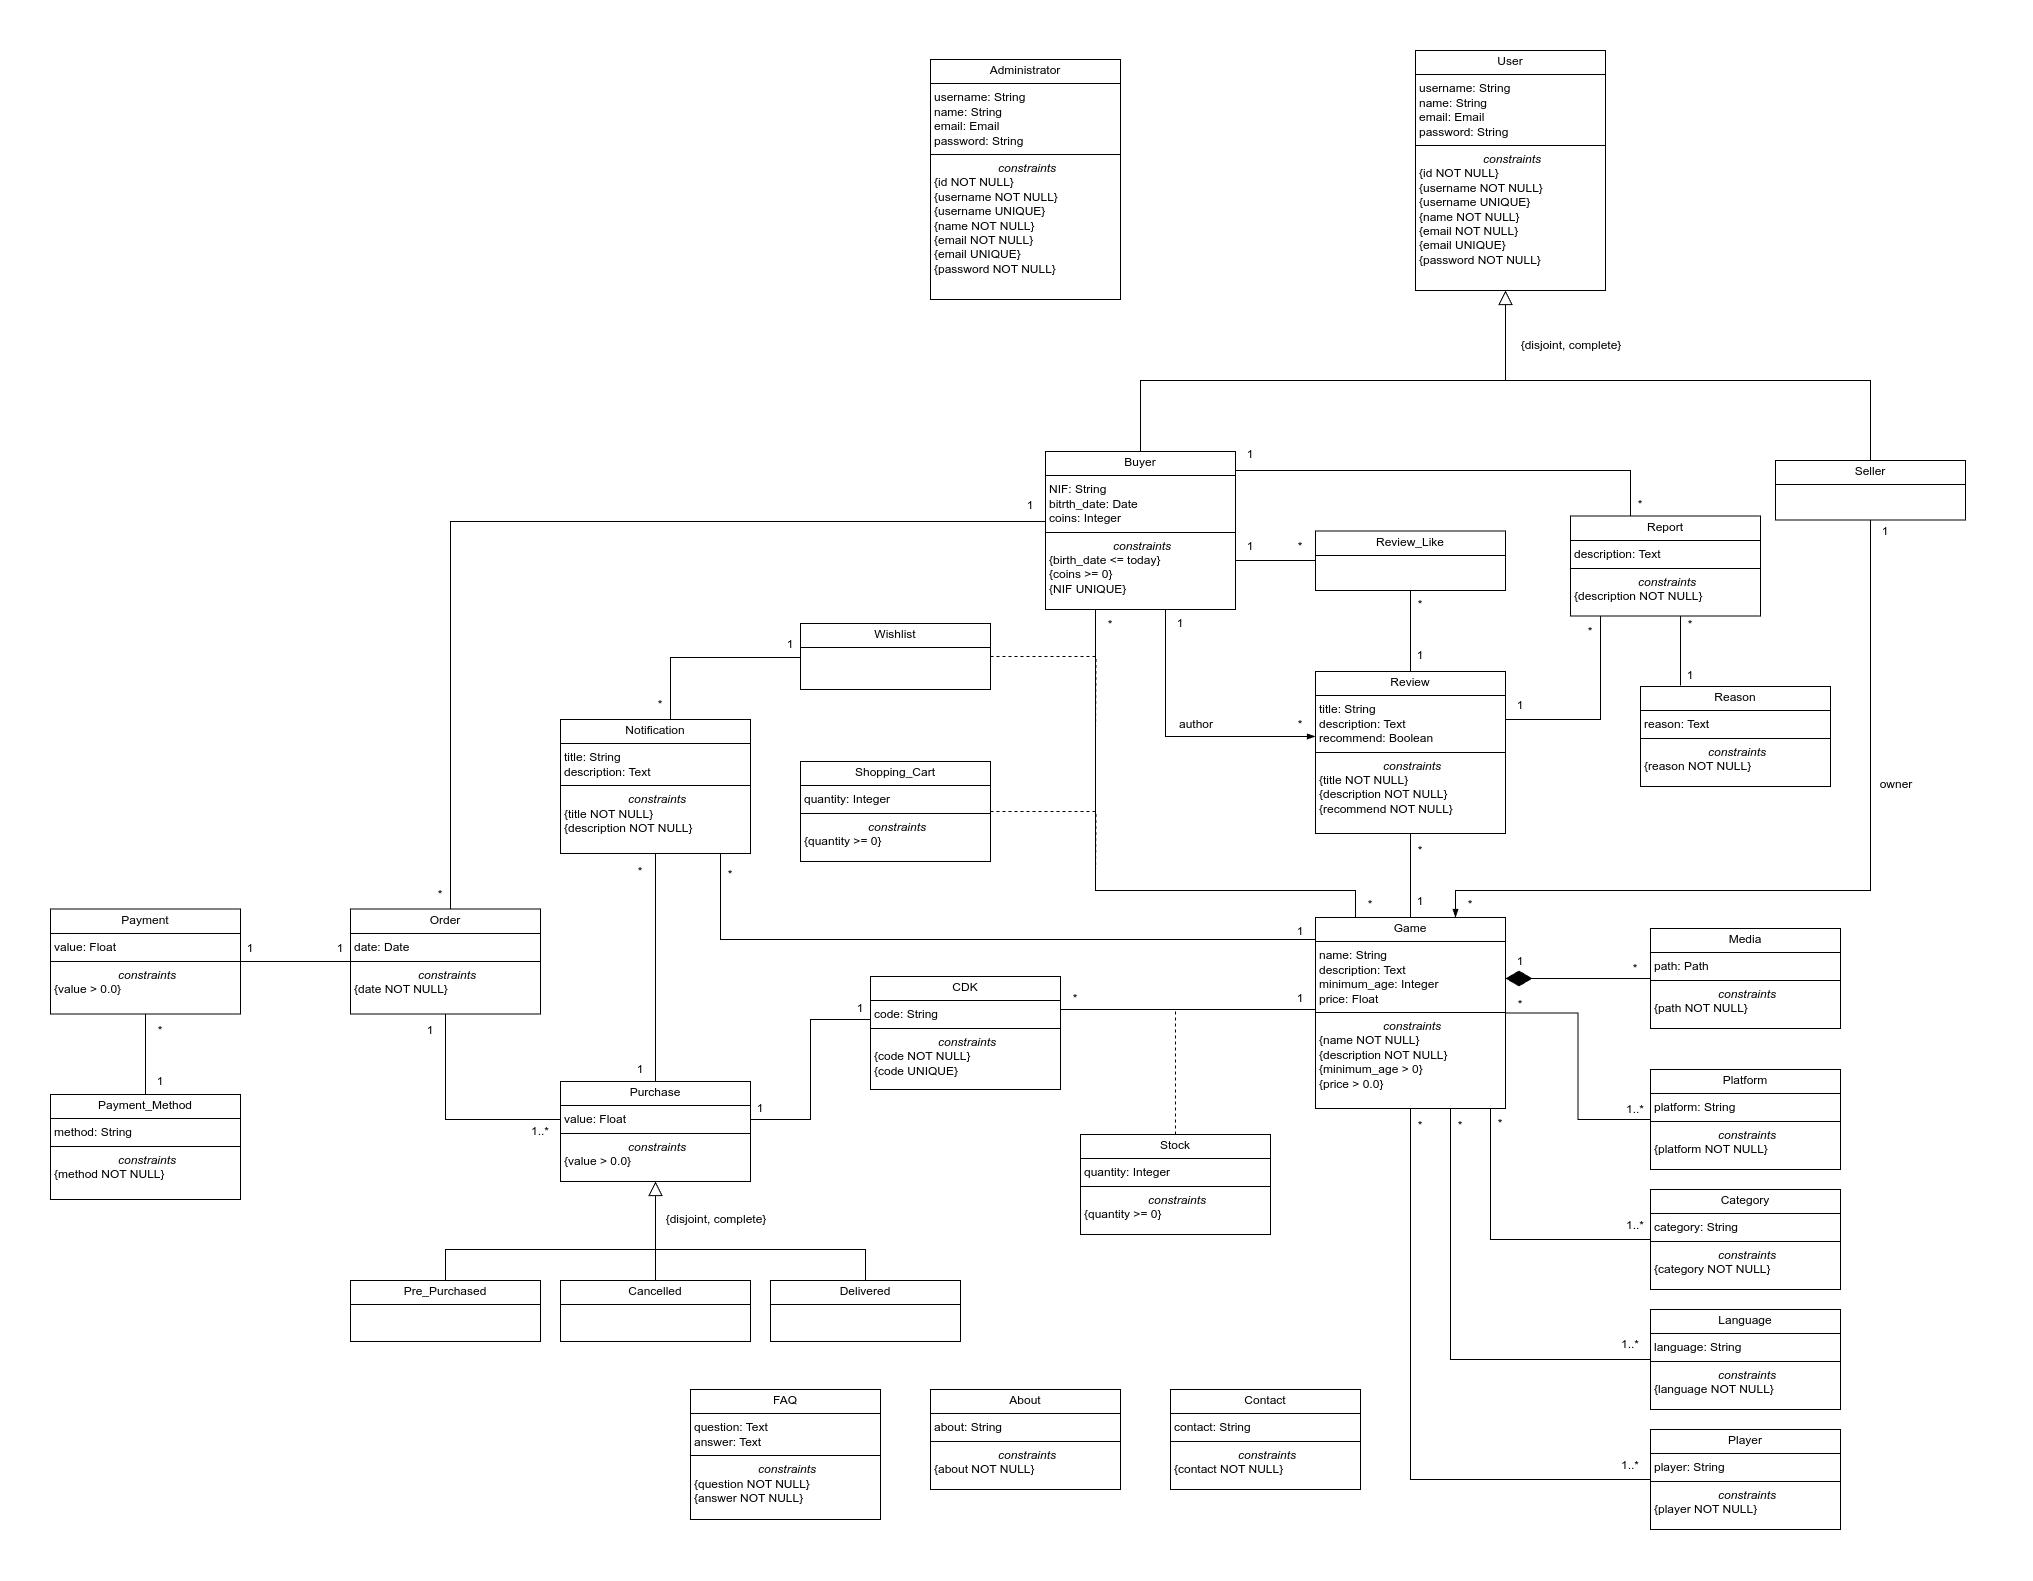
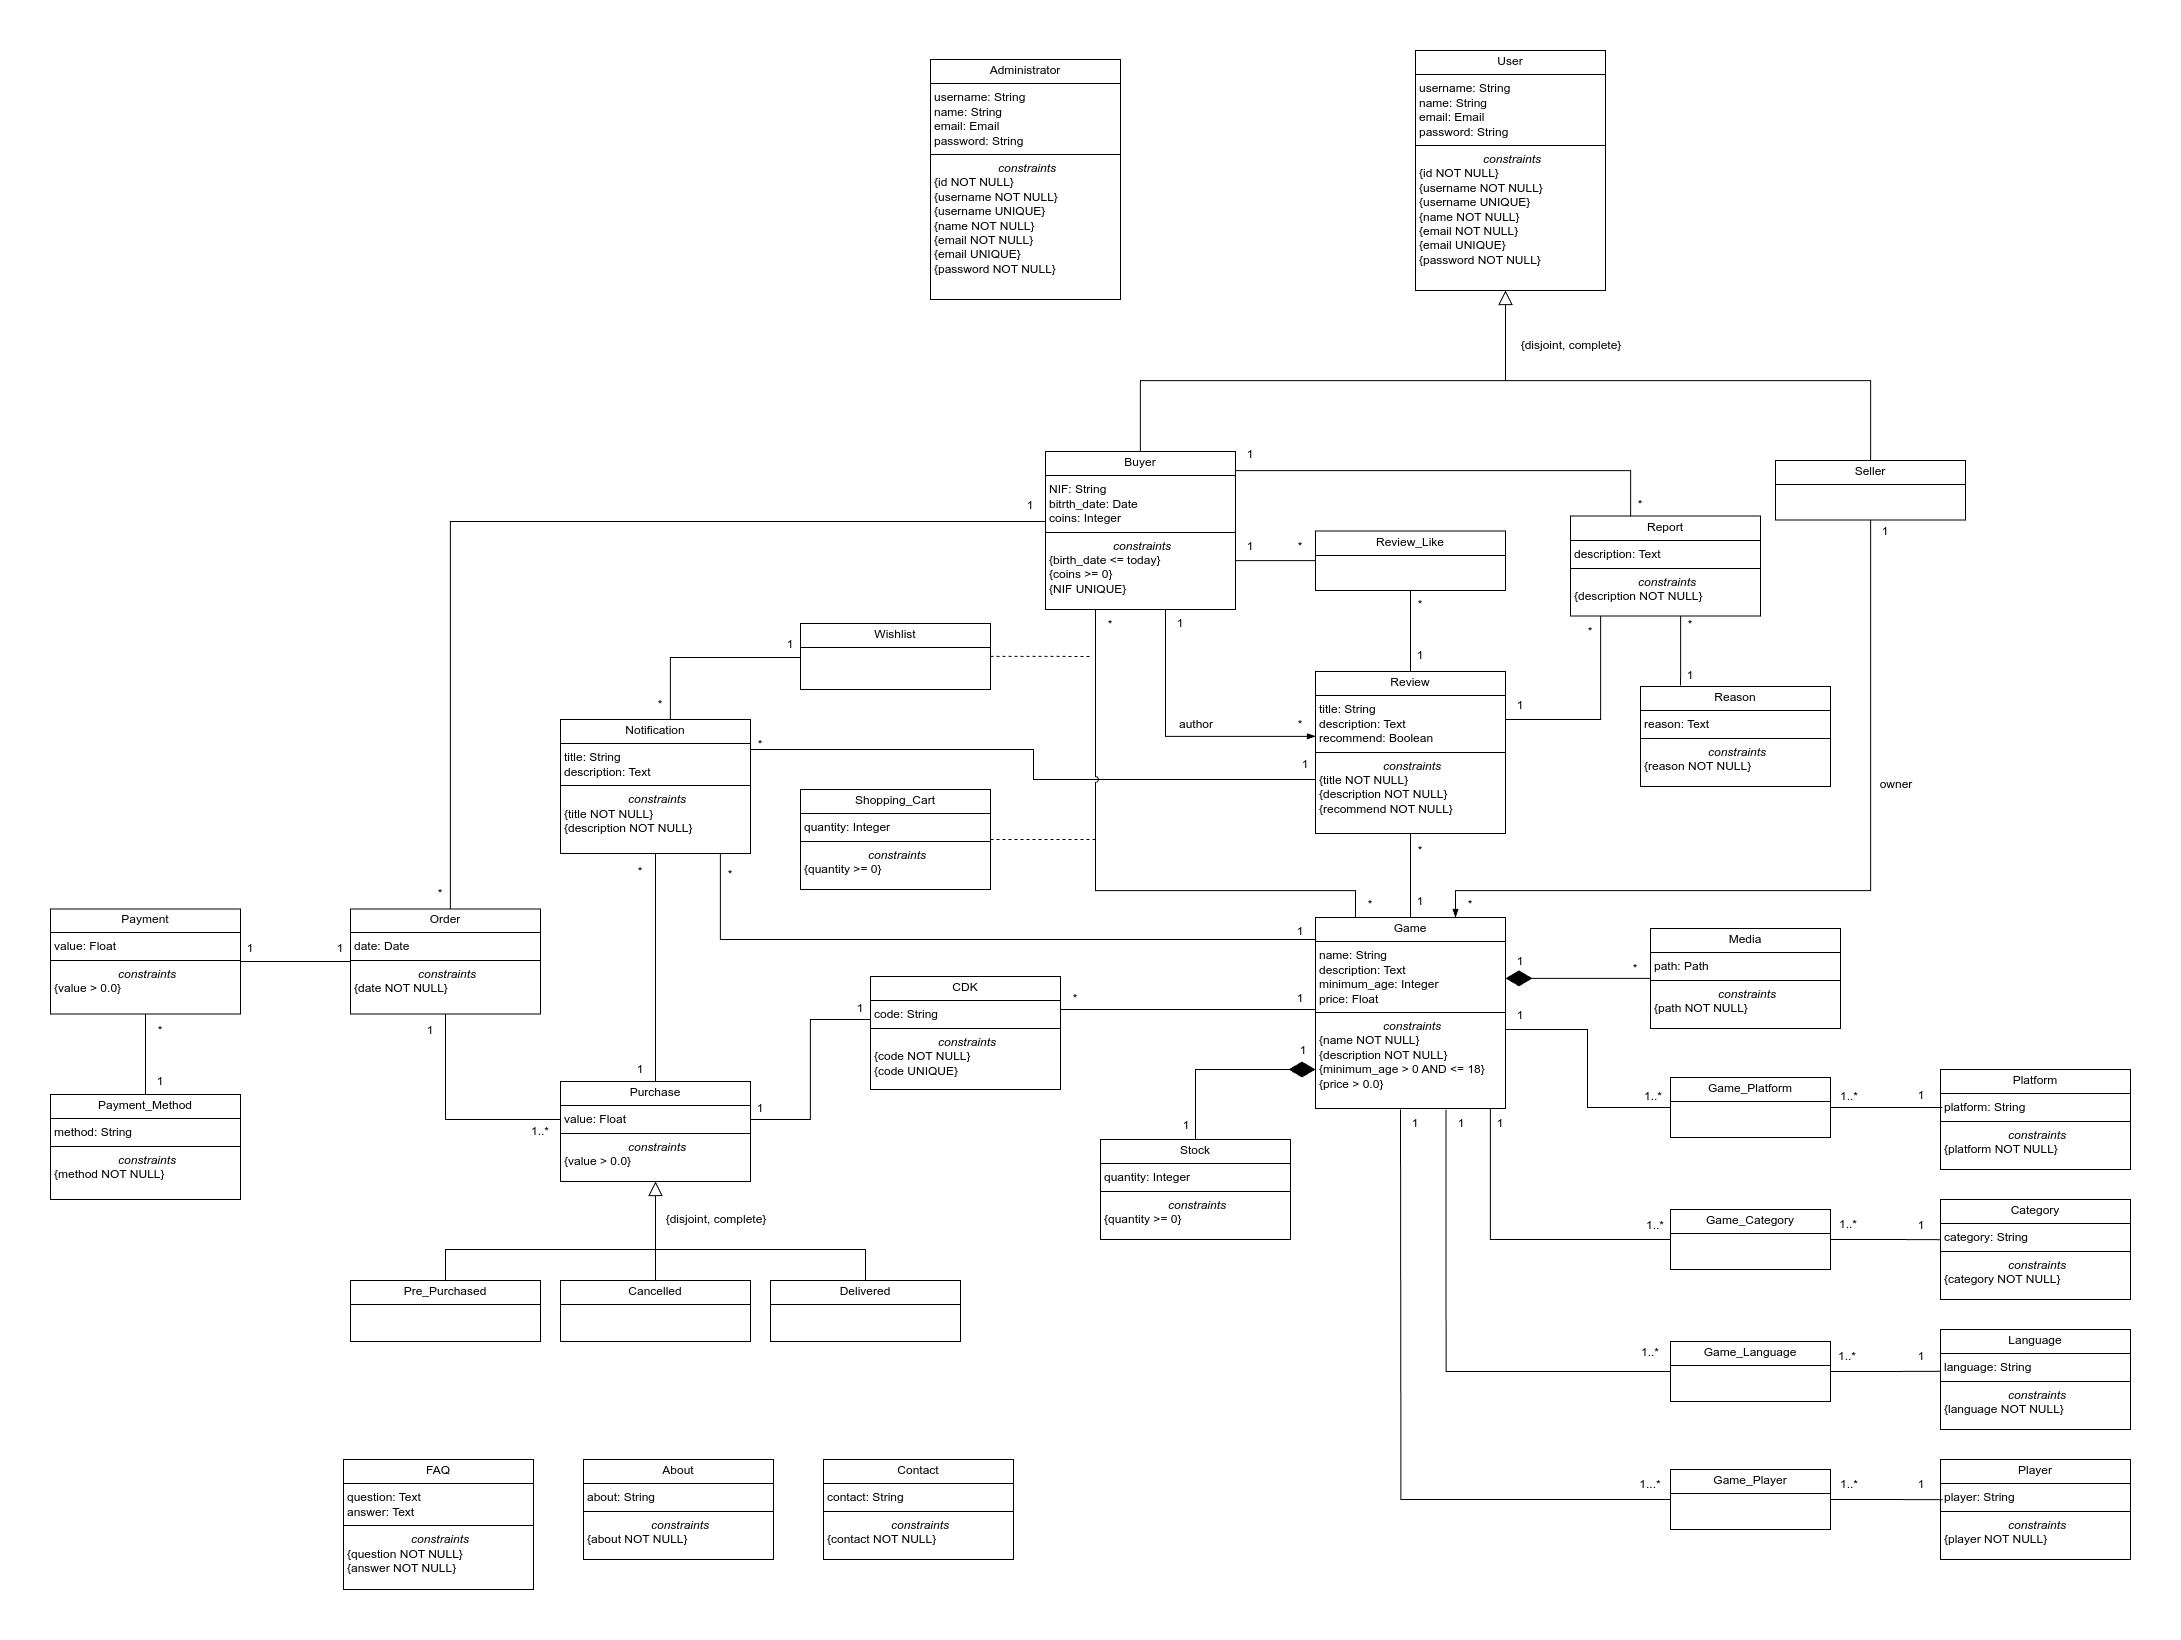
A5 1 and 2 changed and confirmed

diff --git a/README.md b/README.md
@@ -22,9 +22,9 @@ The goal of the class diagram for STEAL! is to visually represent the core compo
 
 ### 2. Additional Business Rules
  
-- BR01 A seller is unable to purchase games on the platform.
-- BR02 A buyer is unable to purchase games that have a higher age rating than their own.
-
+- BR01 - A seller is unable to purchase games on the platform.
+- BR02 - A buyer is unable to purchase games that have a higher age rating than their own.
+- BR03 - A buyer may only like a particular review once. Each combination of a buyer and a review must be unique within the review like system.
 
 ---
 
@@ -52,22 +52,26 @@ The goal of the class diagram for STEAL! is to visually represent the core compo
 | R11                | notification_game(<ins>id</ins>, id_game -> game **NN**, title **NN**, description **NN**) |
 | R12                | notification_purchase(<ins>id</ins>, id_purchase -> purchase **NN**, title **NN**, description **NN**) |
 | R13                | notification_review(<ins>id</ins>, id_review -> review **NN**, title **NN**, description **NN**) |
-| R14                | review(<ins>id</ins>, title **NN**, description **NN**, recommend **NN**, id_author -> buyer **NN**, id_game **NN**) |
-| R15                | review_like(<ins>id</ins>, id_review -> review **NN**, id_author -> buyer **NN**) |
-| R16                | report(<ins>id</ins>, description **NN**, id_reason -> reason **NN**) |
+| R14                | review(<ins>id</ins>, title **NN**, description **NN**, recommend **NN**, id_author -> buyer **NN**, id_game -> game**NN**) |
+| R15                | review_like(<ins>id</ins>, id_review -> review **NN**, id_author -> buyer **NN**, (id_review, id_author) **UK**) |
+| R16                | report(<ins>id</ins>, description **NN**, id_buyer -> buyer **NN**, id_reason -> reason **NN**, id_review -> review **NN**) |
 | R17                | reason(<ins>id</ins>, reason **NN**) |
-| R18                | game(<ins>id</ins>, name **NN**, description **NN**, minimum_age **NN** **CK** minimum_age > 0, price **NN** **CK** price > 0.0, id_owner -> seller **NN**, id_platform -> platform **NN**, id_category -> category **NN**, id_language -> language **NN**, id_player -> player **NN**) |
-| R19                | cdk(<ins>id</ins>, code **UK** **NN**, id_game -> game **NN**) |
-| R20                | stock<ins>id</ins>, quantity **NN** **CK** quantity >= 0, <ins>id_game</ins> -> game **NN** |
-| R21                | platform(<ins>id</ins>, platform **NN**) |
-| R22                | category(<ins>id</ins>, category **NN**) |
-| R23                | language(<ins>id</ins>, language **NN**) |
-| R24                | player(<ins>id</ins>, player **NN**) |
-| R25                | media(<ins>id</ins>, path **NN**, <ins>id_game</ins> -> game **NN**) |
-| R26                | purchase(<ins>id</ins>, value **NN** **CK** value > 0.0, status **NN** **CK** status **IN** Status) |
-| R27                | faq(<ins>id</ins>, question **NN**, answer **NN**) |
-| R28                | about(<ins>id</ins>, about **NN**) |
-| R29                | contact(<ins>id</ins>, contact **NN**) |
+| R18                | game(<ins>id</ins>, name **NN**, description **NN**, minimum_age **NN** **CK** minimum_age > 0 AND minimum_age <= 18, price **NN** **CK** price > 0.0, id_owner -> seller **NN**) |
+| R19                | game_platform(<ins>id</ins>, id_game -> game **NN**, id_platform -> platform **NN**, (id_game, id_platform) **UK**) |
+| R20                | game_category(<ins>id</ins>, id_game -> game **NN**, id_category -> category **NN**, (id_game, id_category) **UK**) |
+| R21                | game_language(<ins>id</ins>, id_game -> game **NN**, id_language -> language **NN**, (id_game, id_language) **UK**) |
+| R22                | game_player(<ins>id</ins>, id_game -> game **NN**, id_player -> player **NN**, (id_game, id_player) **UK**) |
+| R23                | cdk(<ins>id</ins>, code **UK** **NN**, id_game -> game **NN**) |
+| R24                | stock(<ins>id</ins>, quantity **NN** **CK** quantity >= 0, <ins>id_game</ins> -> game **NN**) |
+| R25                | platform(<ins>id</ins>, platform **NN**) |
+| R26                | category(<ins>id</ins>, category **NN**) |
+| R27                | language(<ins>id</ins>, language **NN**) |
+| R28                | player(<ins>id</ins>, player **NN**) |
+| R29                | media(<ins>id</ins>, path **NN**, id_game -> game **NN**) |
+| R30                | purchase(<ins>id</ins>, value **NN** **CK** value > 0.0, status **NN** **CK** status **IN** Status, id_order -> order **NN**, id_cdk -> cdk **UK** **NN**) |
+| R31                | faq(<ins>id</ins>, question **NN**, answer **NN**) |
+| R32                | about(<ins>id</ins>, about **NN**) |
+| R33                | contact(<ins>id</ins>, contact **NN**) |
 
 Legend: 
 - UK = UNIQUE KEY
